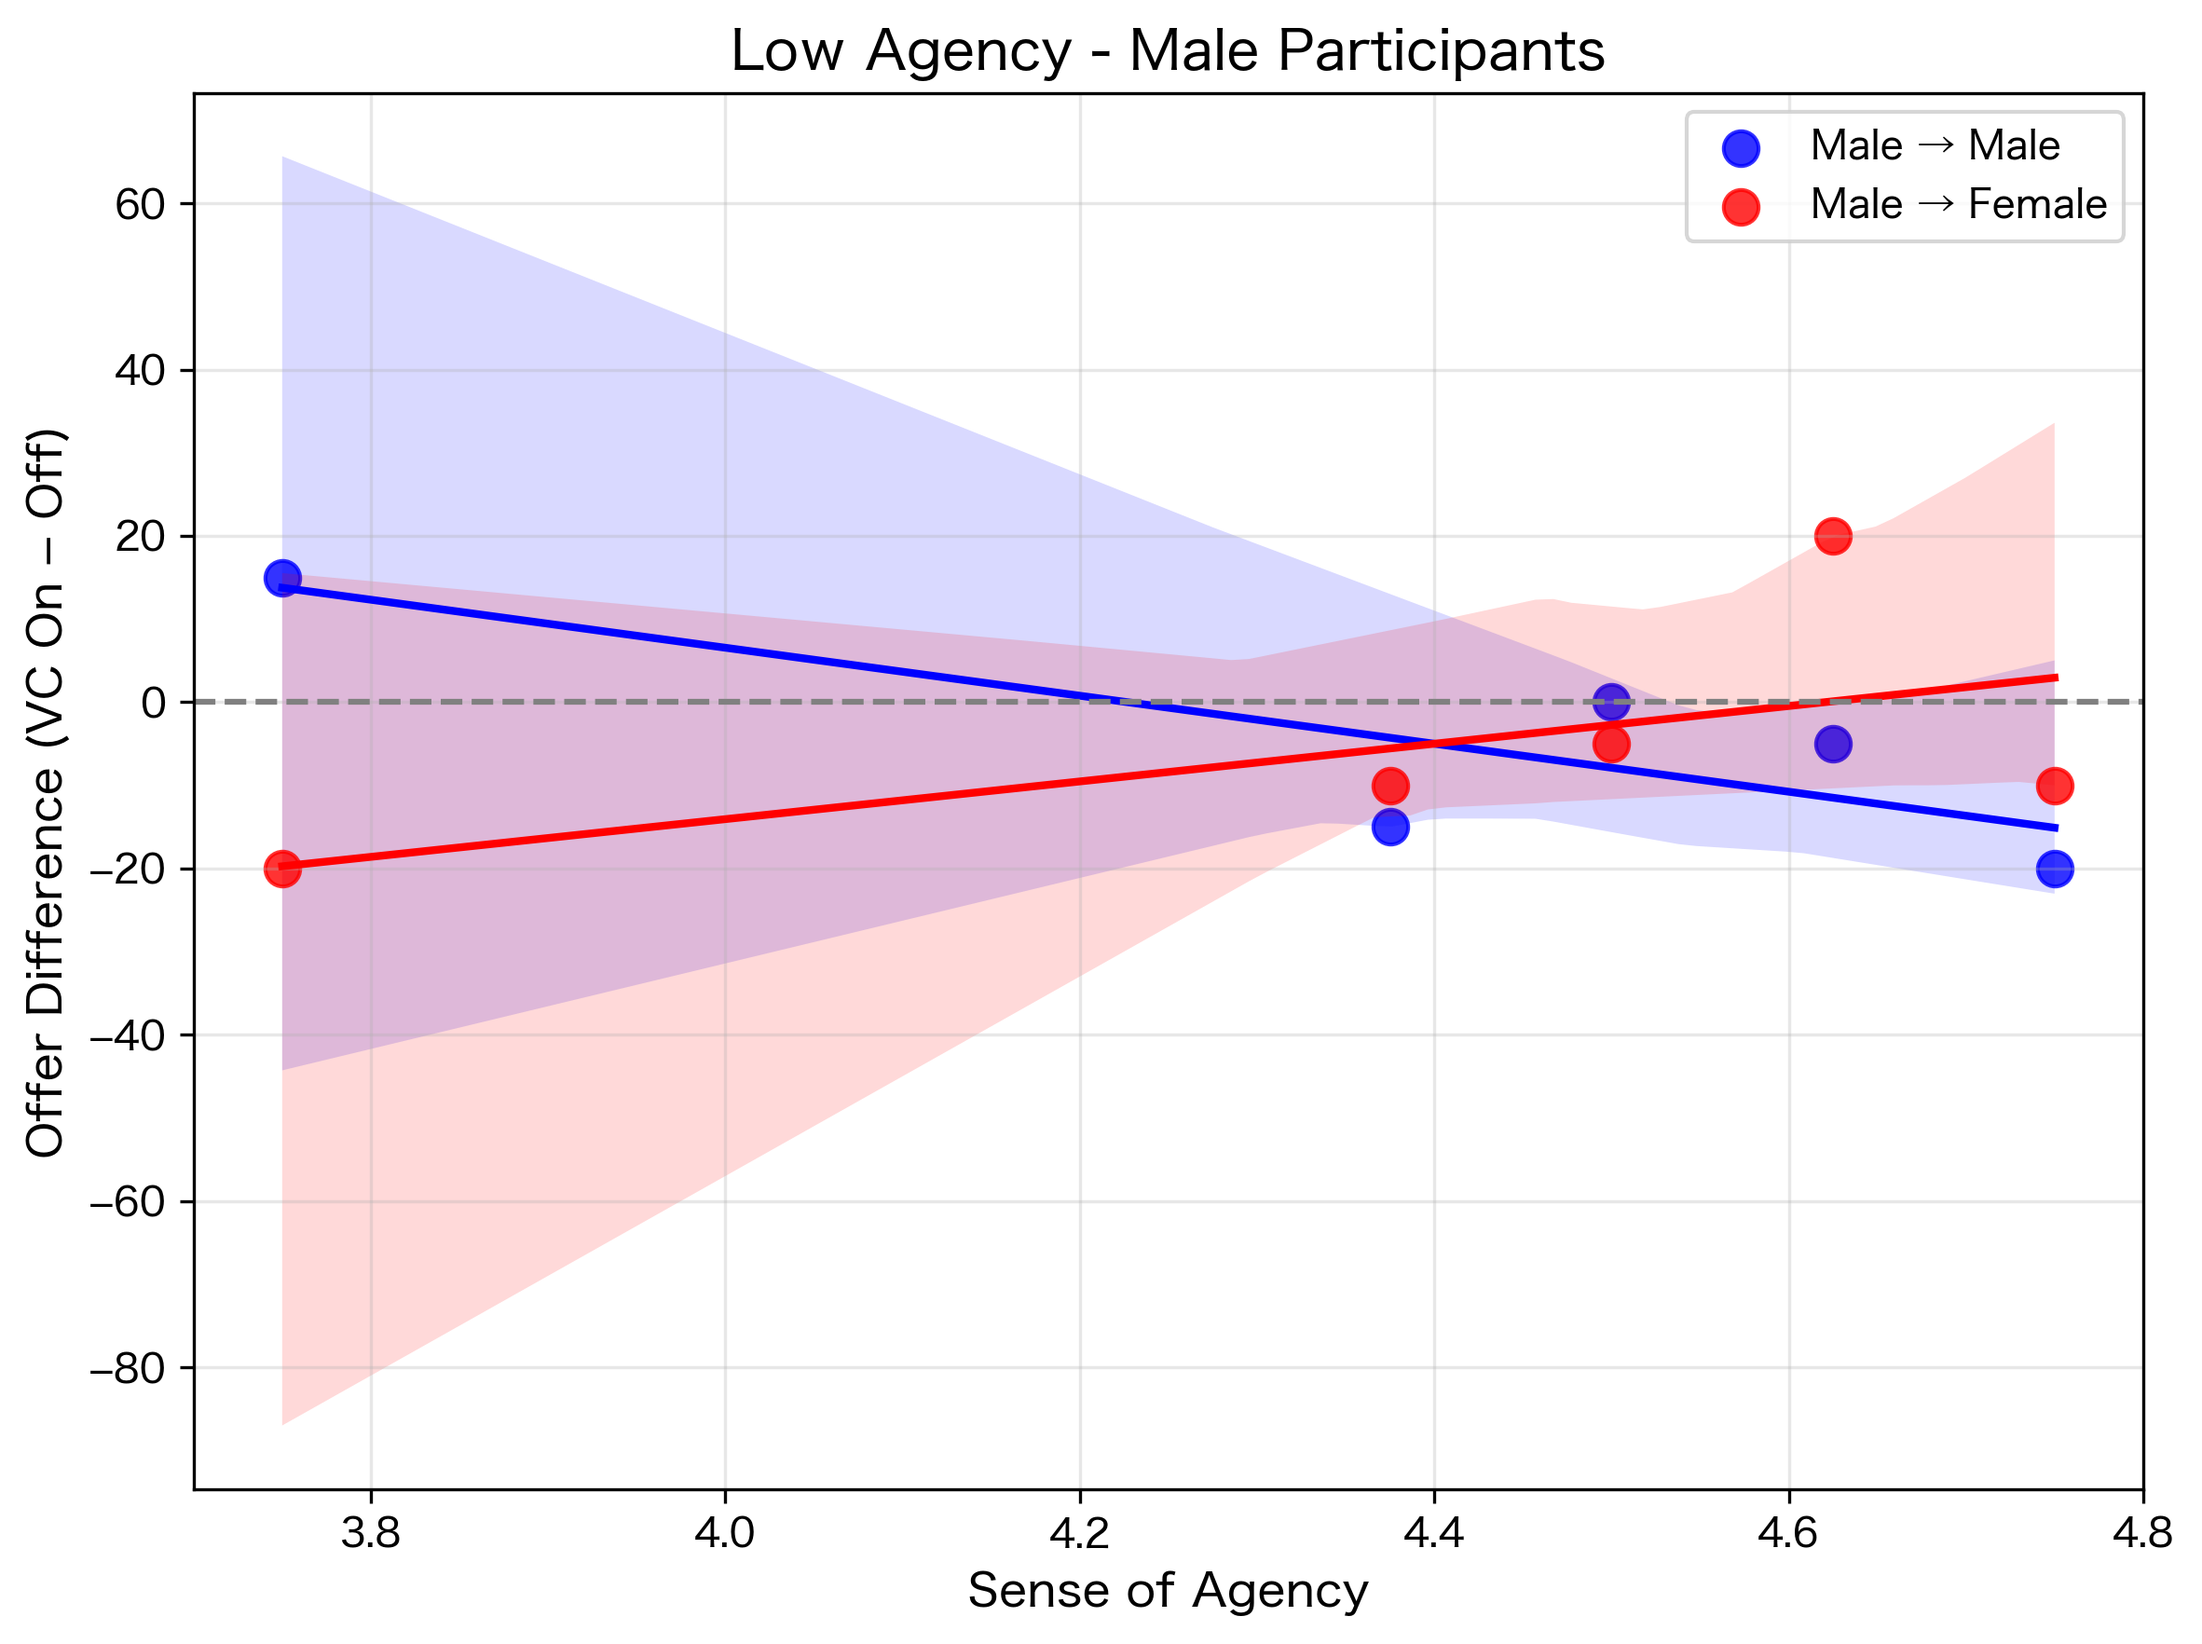
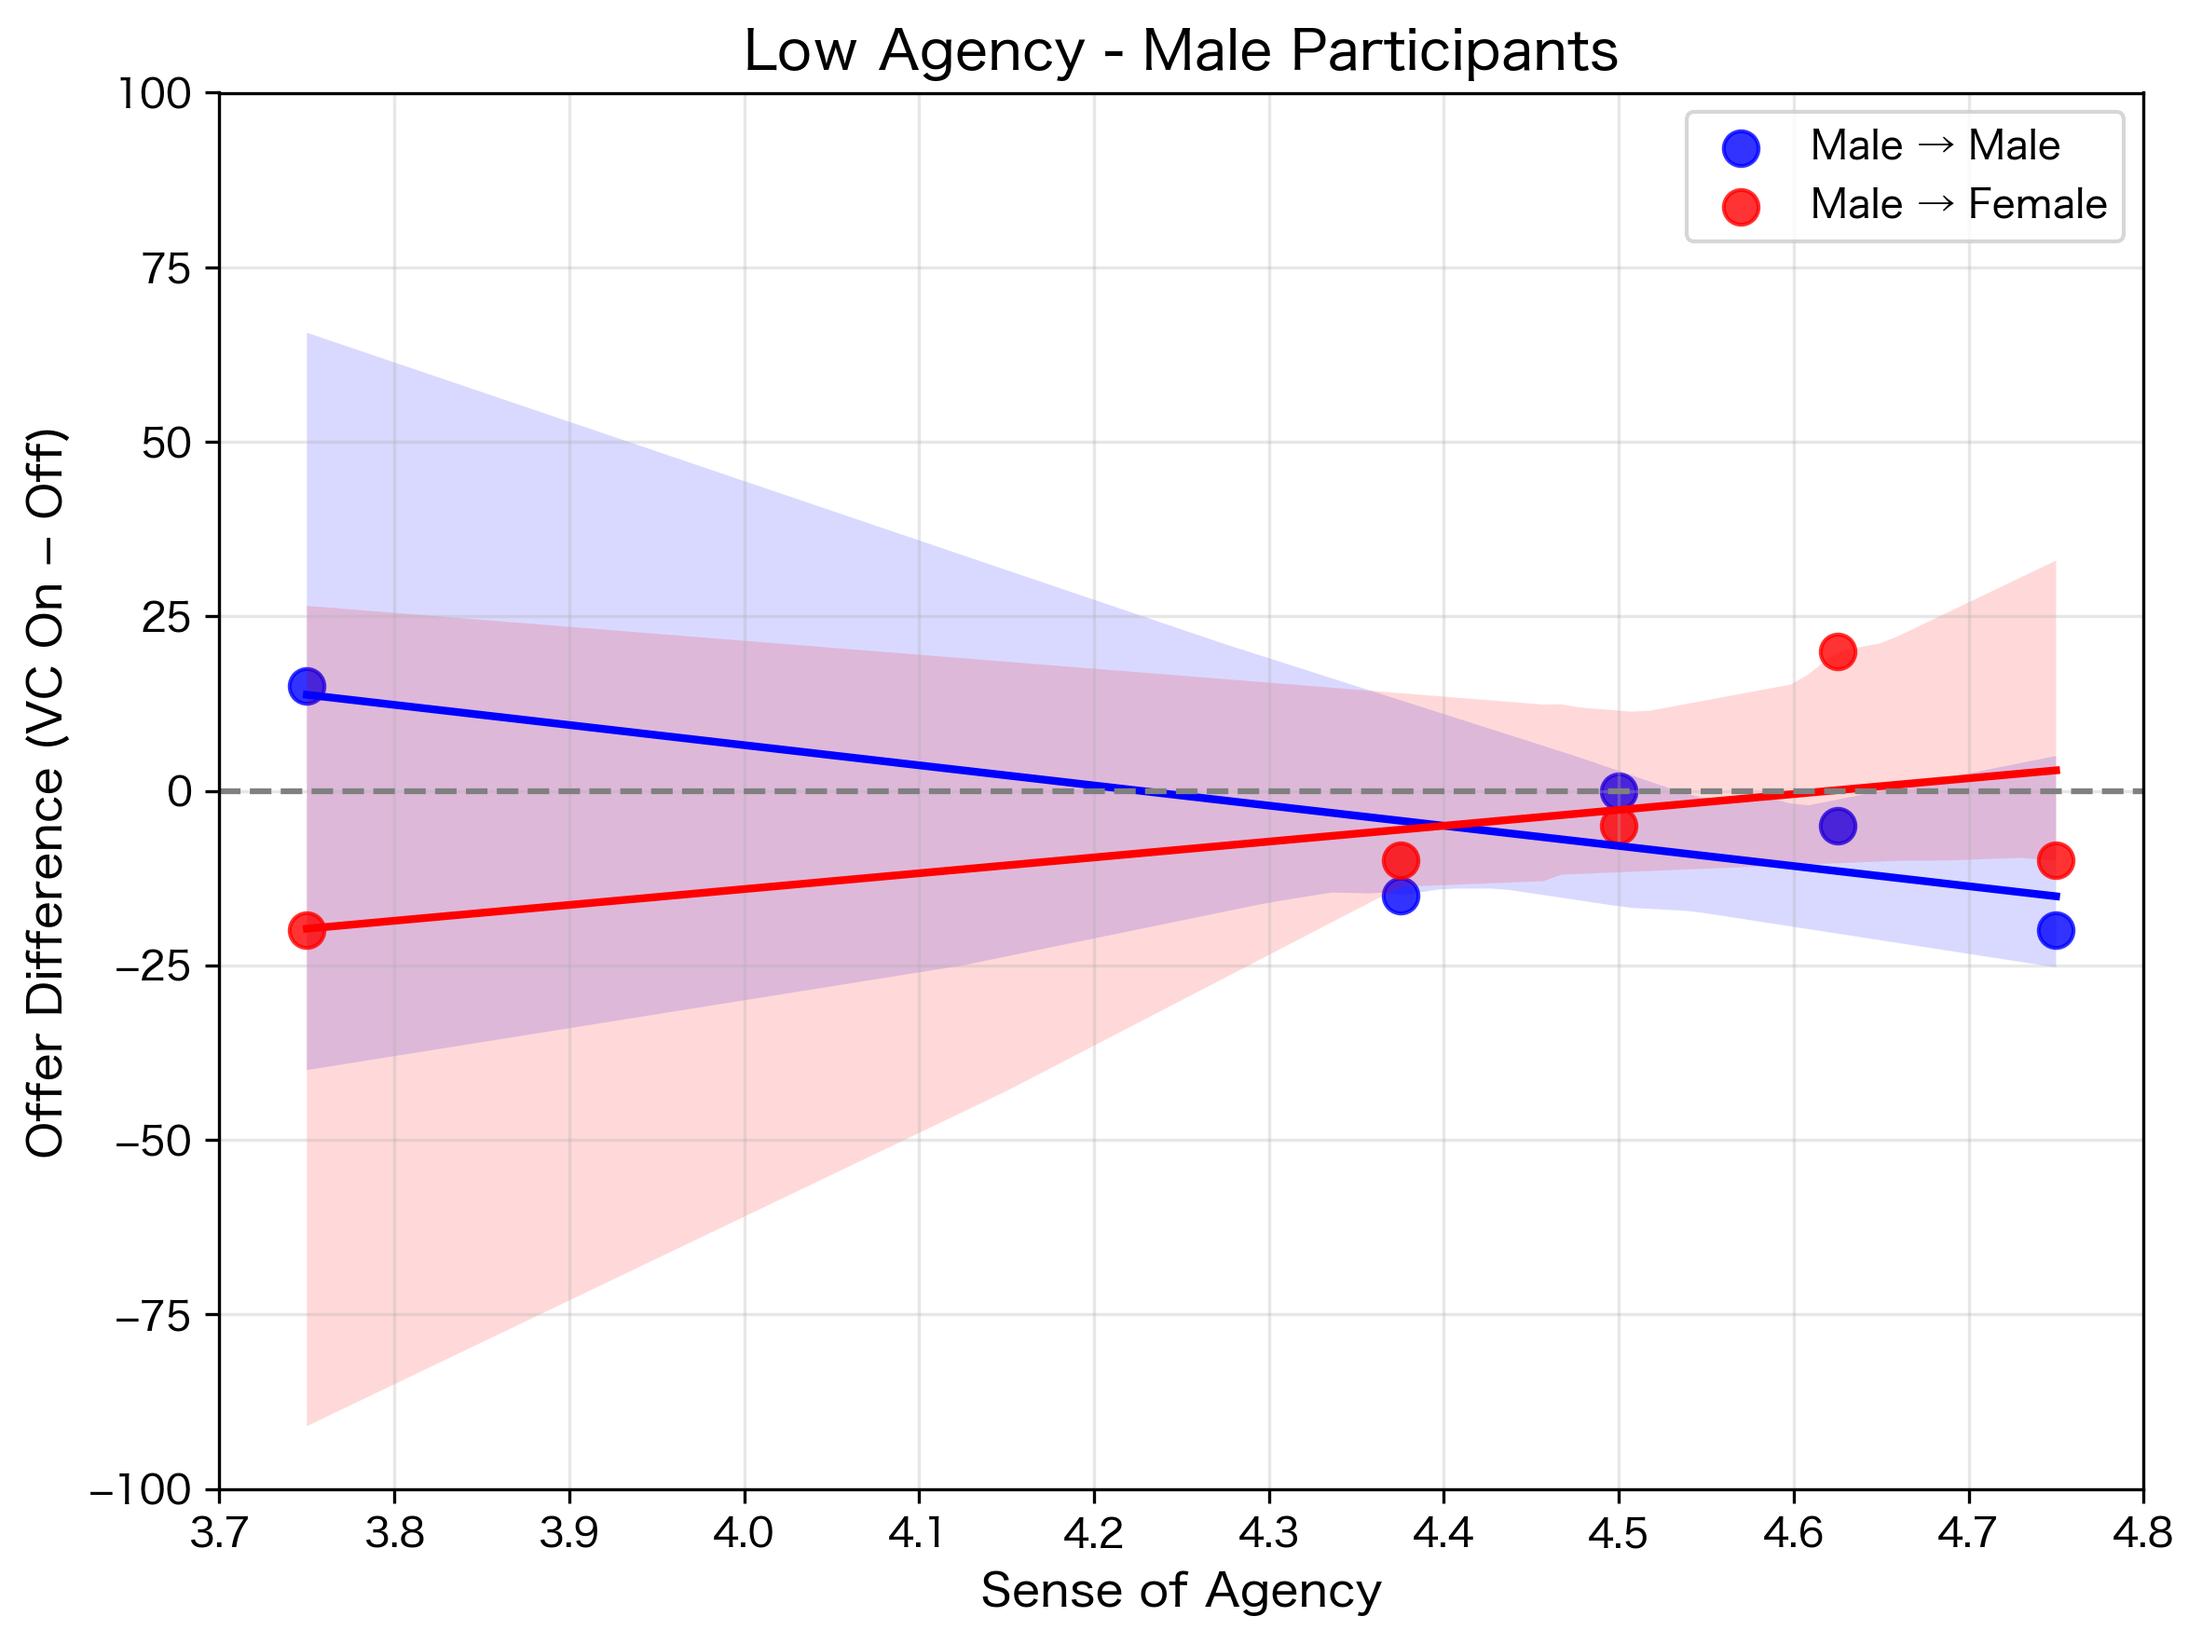
主体感OLSグラフメモリ修正

diff --git a/最後通牒結果/men_senkei_OLS_high.py b/最後通牒結果/men_senkei_OLS_high.py
@@ -195,9 +195,6 @@ print(
 
 # ============================================================
 # ⑪ 男女20名全体から主体感中央値を計算
-#
-# ★ ここでは男性だけにしない
-# ★ 男性10名 + 女性10名で中央値を算出
 # ============================================================
 
 participant_agency = (
@@ -226,9 +223,7 @@ print(
 
 
 # ============================================================
-# ⑫ ★全20名から主体感が中央値より高い被験者を抽出
-#
-# ★ < ではなく > になっていることが重要
+# ⑫ 全20名から主体感が中央値より高い被験者を抽出
 # ============================================================
 
 high_agency_names = participant_agency.loc[
@@ -275,7 +270,7 @@ print(
 
 
 # ============================================================
-# ⑭ ★高主体感群から男性被験者だけ抽出
+# ⑭ 高主体感群から男性被験者だけ抽出
 # ============================================================
 
 male_high_agency = high_agency_all[
@@ -425,12 +420,6 @@ male_female_model = regression_stats(
 
 # ============================================================
 # ⑲ 高主体感の男性被験者のみで交互作用 OLS
-#
-# diff ~ agency × 相手性別
-#
-# relation_num
-# 0 = 男性相手
-# 1 = 女性相手
 # ============================================================
 
 print("\n")
@@ -488,10 +477,7 @@ plt.figure(
 )
 
 
-# ============================================================
 # 男性被験者 → 男性実験者
-# ============================================================
-
 sns.regplot(
     data=male_male,
     x="agency",
@@ -508,10 +494,7 @@ sns.regplot(
 )
 
 
-# ============================================================
 # 男性被験者 → 女性実験者
-# ============================================================
-
 sns.regplot(
     data=male_female,
     x="agency",
@@ -555,6 +538,17 @@ plt.title(
 )
 
 
+# ============================================================
+# ★ 縦軸の範囲・目盛りを統一
+# ============================================================
+
+plt.ylim(-100, 100)
+
+plt.yticks(
+    range(-100, 101, 25)
+)
+
+
 plt.legend()
 
 
@@ -593,14 +587,12 @@ def paired_t_test(df, label):
     absent = data["absent"]
 
 
-    # 対応のある t 検定
     t_stat, p_value = ttest_rel(
         present,
         absent
     )
 
 
-    # VCあり − VCなし
     difference = (
         present
         - absent

diff --git a/最後通牒結果/men_senkei_OLS_low.py b/最後通牒結果/men_senkei_OLS_low.py
@@ -9,6 +9,7 @@ import matplotlib.pyplot as plt
 import statsmodels.api as sm
 import statsmodels.formula.api as smf
 from scipy.stats import ttest_rel
+from matplotlib.ticker import MultipleLocator
 
 
 # ============================================================
@@ -187,14 +188,14 @@ print("\n========================================")
 print("全データ")
 print("========================================")
 
-print("Total N =", len(df_plot))
+print(
+    "Total N =",
+    len(df_plot)
+)
 
 
 # ============================================================
 # ⑪ 男女20名全体から主体感中央値を計算
-#
-# ★ ここでは男性だけに絞らない
-# ★ 男性10名 + 女性10名の全20名で中央値を算出
 # ============================================================
 
 participant_agency = (
@@ -270,7 +271,7 @@ print(
 
 
 # ============================================================
-# ⑭ ★低主体感群から男性被験者だけ抽出
+# ⑭ 低主体感群から男性被験者だけ抽出
 # ============================================================
 
 male_low_agency = low_agency_all[
@@ -454,7 +455,7 @@ interaction_term = "agency:relation_num"
 
 
 print("\n========================================")
-print("男性被験者のみ：交互作用")
+print("低主体感・男性被験者のみ：交互作用")
 print("========================================")
 
 
@@ -475,7 +476,7 @@ print(
 
 
 # ============================================================
-# ㉑ 男性被験者のみ：OLS回帰プロット
+# ㉑ 低主体感・男性被験者のみ：OLS回帰プロット
 # ============================================================
 
 plt.figure(
@@ -547,6 +548,32 @@ plt.ylabel(
 plt.title(
     "Low Agency - Male Participants",
     fontsize=14
+)
+
+
+# ============================================================
+# ★ グラフの軸設定
+# ============================================================
+
+# 縦軸：
+# 高主体感群と比較できるように
+# -100 ～ 100、25刻みで統一
+plt.ylim(
+    -100,
+    100
+)
+
+plt.yticks(
+    range(-100, 101, 25)
+)
+
+
+# 横軸：
+# 範囲は固定しない
+# データに合わせて自動調整し、
+# 目盛りだけ0.1刻みにする
+plt.gca().xaxis.set_major_locator(
+    MultipleLocator(0.1)
 )
 
 
